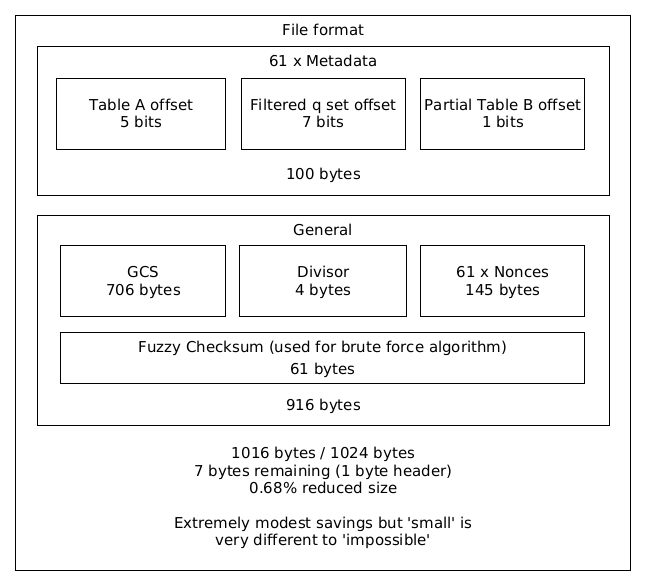
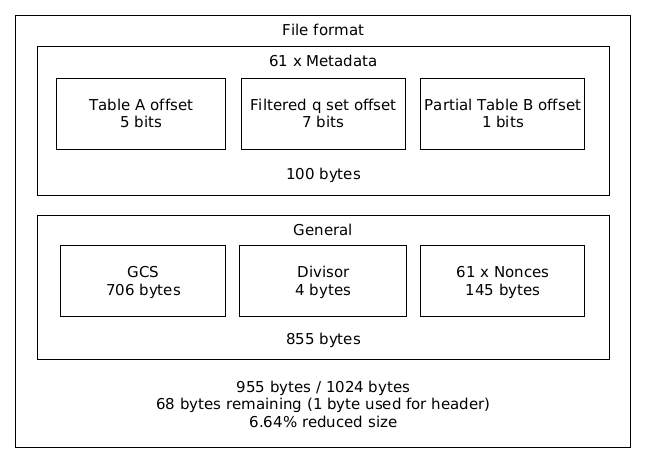
Undo corrections.

diff --git a/articles/rand/README.md b/articles/rand/README.md
@@ -23,13 +23,11 @@ The algorithm in this paper avoids the problems with argument 2 by storing infor
 
 The algorithm builds on a remarkable data structure called a golomb-coded set (GCS) [gcs-info]. A GCS is kind of like a bloom filter in that it allows one to know with absolute certainty if an item is *not* in a set or if an item *may* be in a set. What makes a GCS special over a bloom filter is its size: a GCS is around 44% smaller than a bloom filter. It's so small in fact, that when you end up putting information inside the set the results practically resemble random data compression already -- that is -- if there were a way to retrieve the data!
 
-The focus of this paper is on designing an algorithm that can recover information from a GCS using highly compact, cryptographic puzzles. Such a scheme allows multiple values to be **'stored' inside a GCS in a super-position of values within the same amount of space.** Such a property makes it possible to avoid the problems that arise from trying to store a large amount of values in a small amount of space using binary directly [counting-argument]. The scheme is fully lossless and has a very modest compression saving of 0.68% (translates to a mere 7 bytes / 1024 KB saved.)
+The focus of this paper is on designing an algorithm that can recover information from a GCS using highly compact, cryptographic puzzles. Such a scheme allows multiple values to be **'stored' inside a GCS in a super-position of values within the same amount of space.** Such a property makes it possible to avoid the problems that arise from trying to store a large amount of values in a small amount of space using binary directly [counting-argument]. The scheme is fully lossless and has a modest compression saving of 6.64% (translates to a 68 byte / 1024 byte saving.)
 
 https://github.com/robertsdotpm/rand/blob/master/utils.py -- see buf_to_chunks().
 
 The algorithm is designed to operate on 1 KB buffers which are split into **484~ 17 bit words** and stored in the GCS together with their offset. Suppose one were to test the GCS for every possible 17 bit value prefixed by a given word offset. One would end up with a list of false positives based on the parameters chosen for the GCS accuracy (1024.) Among the list of **candidates** would always be an offset to the correct word you were looking for -- the word in the candidate set as seen in the GCS. Do this for every word and you'll have a list of **candidate lists** together with a list of **numbers for how many candidates are in each list.** You'll also have a list of the correct offsets, of course, which we'll call the **node list** for short.
-
-To reduce the number of false positives by half, the algorithm makes use of a bit string that samples the first bit expected in each word hash that is 'added' to the GCS. The word hashes starting bit is compared to the bit string and skipped if it doesn't match. The amount of space to store this metadata versus the exponential rise in set size without it was found to be more favorable than resolving the problem by other means. Such a bit filtering string is part of the many elements that make this algorithm possible.
 
 ![brute force](articles/rand/brute_force.png)
 
@@ -130,7 +128,7 @@ To determine its value consider that the q set offset ends up pointing to a spec
 
 The integer is a key way to solve the problem that arises from running out of nonces to check. Since the value of i is not saved in the data format, the inclusion of i allows each q set to be used uniquely with its own nonce range without taking up extra space in the data format.
 
-Example code: not available yet.
+https://github.com/robertsdotpm/rand/blob/develop/compress.py -- compress function.
 
 ![no selection](articles/rand/no_selection.png)
 
